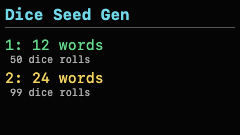
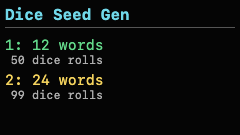
Show mnemonic words one at a time

Changed region(s): [[0.0, 0.5333, 0.4375, 0.7407], [0.0292, 0.3852, 0.4375, 0.4741]]

diff --git a/simulator/index.html b/simulator/index.html
@@ -18,7 +18,7 @@
     #screen .footer { display: flex; justify-content: space-between; margin-top: auto; }
     #screen .rolls { font-size: 1.1em; letter-spacing: 0.04em; min-height: 2.5em; }
     #screen .choice { font-size: 1.45em; line-height: 1.1; margin-top: 0.3em; }
-    #screen .choice-detail { margin-left: 0.5em; opacity: 0.75; }
+    #screen .choice-detail { font-size: 1.15em; margin-left: 0.5em; opacity: 0.75; }
     #screen .choice-green { color: #64d98b; }
     #screen .choice-amber { color: #f4d35e; }
     #screen .title-cyan { color: #71d8e9; }
@@ -81,9 +81,9 @@
         }).join("<br>");
         screen.innerHTML = `<div class="title"><span>${required === 50 ? "12" : "24"} words</span><span style="float:right">${count} / ${required}</span></div><div class="rolls">${rollGrid}</div><div class="footer ${count === required ? "green" : "yellow"}"><span>*: undo</span><span>#: ${count === required ? "generate" : "main menu"}</span></div>`;
       } else if (wasm._session_screen() === 3) {
-        const page = wasm._session_page(), count = wasm._session_word_count(), from = page * 4;
-        const lines = Array.from({length: Math.min(4, count - from)}, (_, i) => `${String(from + i + 1).padStart(2, " ")}. ${wordFromIndex(wasm._session_word_index_at(from + i))}`).join("<br>");
-        screen.innerHTML = `<div class="title">Write words ${from + 1}-${Math.min(from + 4, count)}</div>${lines}<div class="yellow footer"><span>*: previous</span><span>#: next</span></div>`;
+        const page = wasm._session_page(), count = wasm._session_word_count();
+        const word = wordFromIndex(wasm._session_word_index_at(page));
+        screen.innerHTML = `<div class="title">Word ${page + 1} / ${count}</div><div style="font-size:2.1em; font-weight:bold; margin-top:1.1em; text-align:center">${word}</div><div class="yellow footer"><span>*: previous</span><span>#: next</span></div>`;
       } else if (wasm._session_screen() === 4) {
         screen.innerHTML = `<div class="title">Verify backup?</div><div>Check every written word</div><div class="yellow footer"><span>*: skip</span><span>#: start quiz</span></div>`;
       } else if (wasm._session_screen() === 5) {
@@ -124,7 +124,7 @@
       if (state === "rolls") return;
       wasm._session_press("#".charCodeAt(0));
       if (state === "words") return;
-      for (let i = 0; i < 6; ++i) wasm._session_press("#".charCodeAt(0));
+      for (let i = 0; i < wasm._session_word_count(); ++i) wasm._session_press("#".charCodeAt(0));
       if (state === "verify") return;
       wasm._session_press("#".charCodeAt(0));
     }

diff --git a/tests/test_session.cpp b/tests/test_session.cpp
@@ -37,9 +37,7 @@ int main() {
   assert(session.screen() == SessionScreen::EnterRolls && session.rollCount() == 50);
   session.press('#');
   assert(session.screen() == SessionScreen::ShowWords && session.page() == 0);
-  session.press('#');
-  session.press('#');
-  session.press('#');
+  for (size_t i = 0; i < session.wordCount(); ++i) session.press('#');
   assert(session.screen() == SessionScreen::VerifyPrompt);
   session.press('*');
   assert(session.screen() == SessionScreen::ConfirmSkipQuiz);
@@ -69,7 +67,8 @@ int main() {
 
   enter(session, rolls);
   session.press('#');
-  session.press('#'); session.press('#'); session.press('#');
+  for (size_t i = 0; i < session.wordCount(); ++i) session.press('#');
+  assert(session.screen() == SessionScreen::VerifyPrompt);
   session.press('#');
   for (size_t question = 0; question < 12; ++question) {
     const uint16_t correct = session.wordIndexAt(session.quizWordNumber() - 1);

diff --git a/src/session.h b/src/session.h
@@ -10,7 +10,7 @@ enum class SessionScreen : uint8_t { ChooseLength, PreflightWarning, EnterRolls,
 class Session {
  public:
   static constexpr size_t kMaxRolls = 99;
-  static constexpr size_t kWordsPerPage = 4;
+  static constexpr size_t kWordsPerPage = 1;
 
   Session() { clear(); }
   ~Session() { clear(); }

diff --git a/README.md b/README.md
@@ -59,7 +59,7 @@ Screens below are rendered from the local WebAssembly simulator using the public
 
 **Review mnemonic**
 
-`*` shows the previous word page and `#` shows the next page. On the first word page, `*` returns to the completed roll grid. After the final page, `#` opens the backup-verification prompt.
+Each mnemonic word is shown individually in a large font. `*` shows the previous word and `#` shows the next. On the first word, `*` returns to the completed roll grid. After the final word, `#` opens the backup-verification prompt.
 
 **Verify backup**
 
